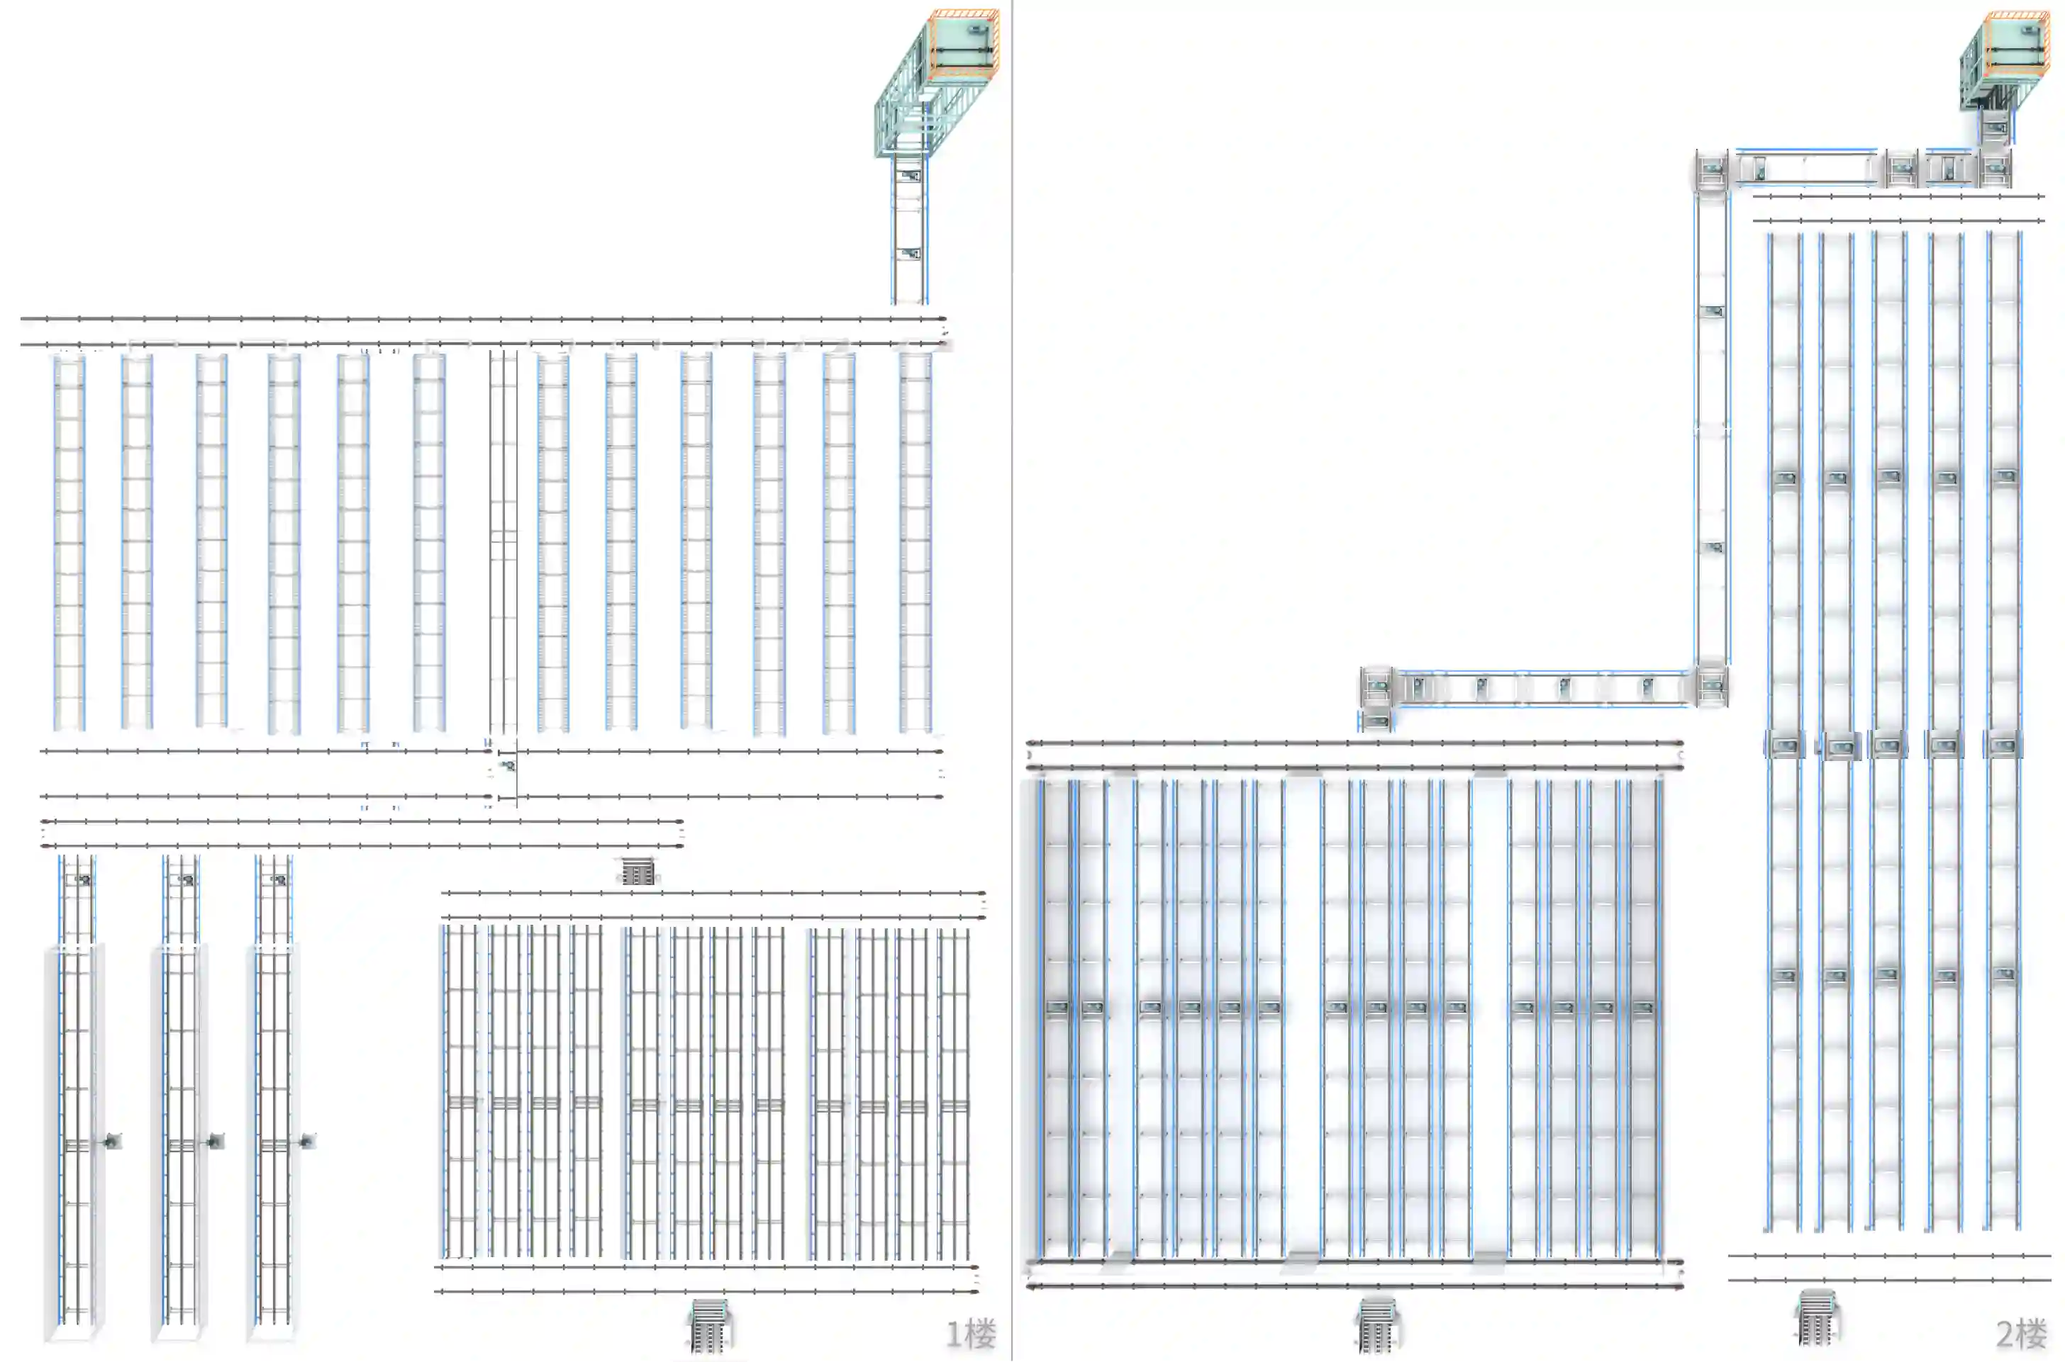
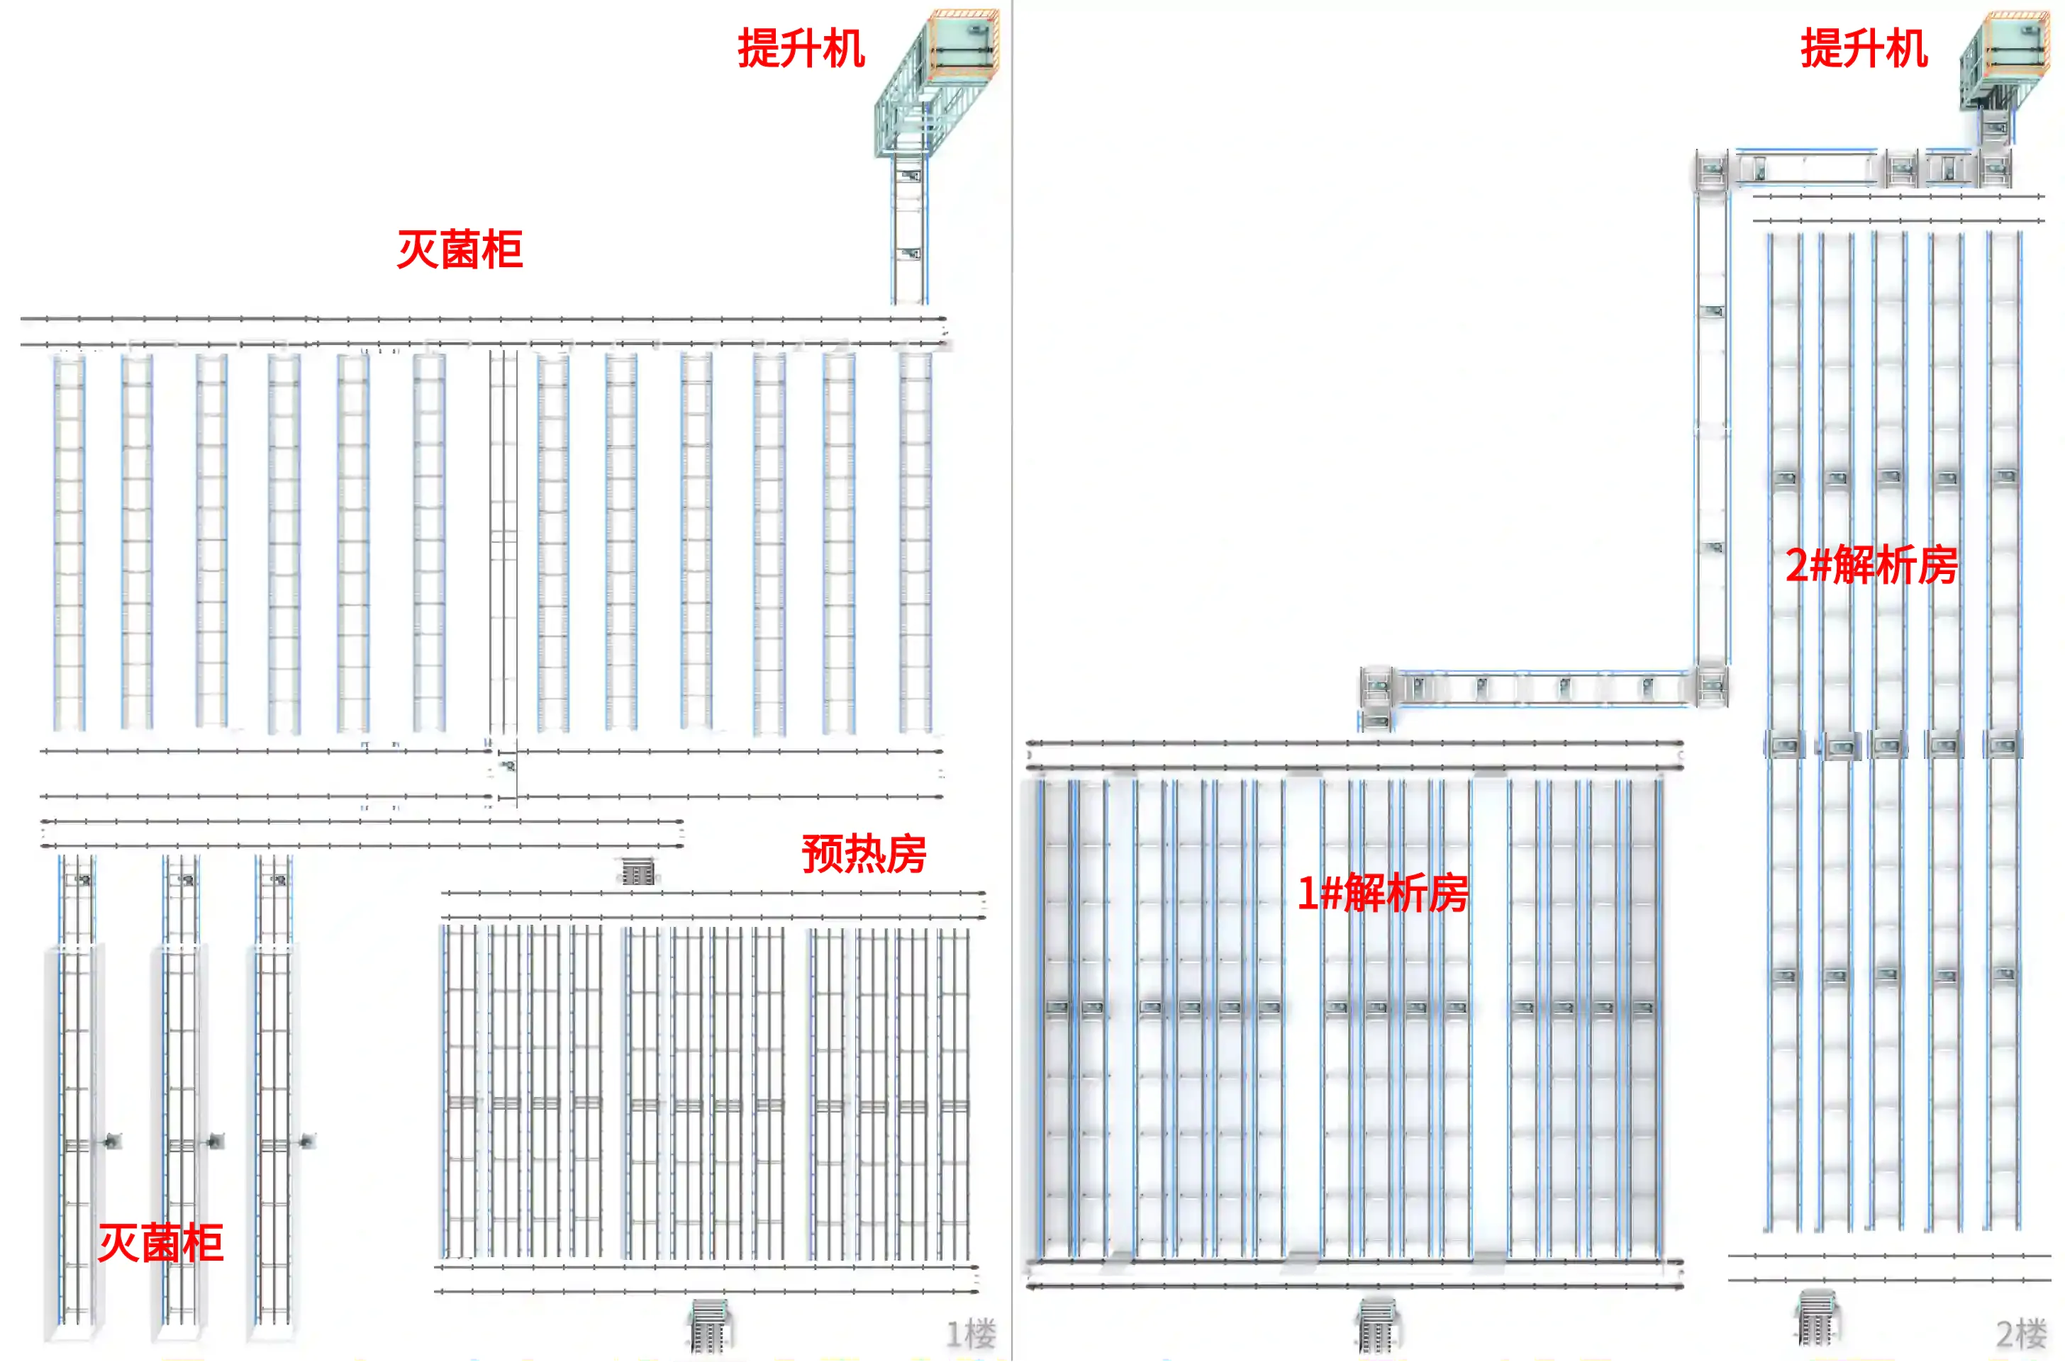
feat(home): 添加安全门状态显示功能并优化预热灭菌流程
- 在MainPage.vue中添加安全门打开标记组件，支持一楼6个和二楼3个安全门的实时状态显示
- 修改plcPoints.js配置，将DBW162从注释状态改为正式使用，用于二楼安全门监控
- 移除预热数量对比异常的相关代码逻辑和PLC标签定义
- 更新预热房到灭菌柜执行的位置坐标，从(1000,250)调整为(790,160)
- 优化托盘详情显示，调整订单灭菌柜和灭菌柜信息的展示顺序
- 添加cart7-cart10小车位置范围的具体定义，替换原有的占位配置
- 实现安全门信号的数据处理逻辑，包括一楼DBW176和二楼DBW162的位信号解析
- 更新图像标记查询选择器，添加.safety-door-marker类以支持新组件渲染
- 添加安全门标记的CSS样式，实现红色警示效果的两行文字显示

diff --git a/src/views/home/MainPage.vue b/src/views/home/MainPage.vue
@@ -721,8 +721,8 @@
                 <!-- 预热房到灭菌柜执行 -->
                 <div
                   class="preheating-room-marker"
-                  data-x="1000"
-                  data-y="250"
+                  data-x="790"
+                  data-y="160"
                   style="width: 160px"
                 >
                   <div class="preheating-room-content">
@@ -1058,6 +1058,98 @@
                   </div>
                 </div>
 
+                <!-- 安全门打开标记（收到信号显示，两行文字；坐标为平面图占位，需现场调整） -->
+                <!-- 一楼 DBW176 bit0：灭前1安全门 -->
+                <div
+                  class="safety-door-marker"
+                  data-x="1170"
+                  data-y="270"
+                  v-show="floor1SafetyDoorWord.bit0 === '1'"
+                >
+                  <span class="safety-door-line">安全门</span>
+                  <span class="safety-door-line">打开</span>
+                </div>
+                <!-- 一楼 DBW176 bit1：灭前2安全门 -->
+                <div
+                  class="safety-door-marker"
+                  data-x="1070"
+                  data-y="370"
+                  v-show="floor1SafetyDoorWord.bit1 === '1'"
+                >
+                  <span class="safety-door-line">安全门</span>
+                  <span class="safety-door-line">打开</span>
+                </div>
+                <!-- 一楼 DBW176 bit2：灭后1#安全门 -->
+                <div
+                  class="safety-door-marker"
+                  data-x="830"
+                  data-y="370"
+                  v-show="floor1SafetyDoorWord.bit2 === '1'"
+                >
+                  <span class="safety-door-line">安全门</span>
+                  <span class="safety-door-line">打开</span>
+                </div>
+                <!-- 一楼 DBW176 bit3：灭后2#安全门 -->
+                <div
+                  class="safety-door-marker"
+                  data-x="180"
+                  data-y="370"
+                  v-show="floor1SafetyDoorWord.bit3 === '1'"
+                >
+                  <span class="safety-door-line">安全门</span>
+                  <span class="safety-door-line">打开</span>
+                </div>
+                <!-- 一楼 DBW176 bit4：灭后3#安全门 -->
+                <div
+                  class="safety-door-marker"
+                  data-x="50"
+                  data-y="1380"
+                  v-show="floor1SafetyDoorWord.bit4 === '1'"
+                >
+                  <span class="safety-door-line">安全门</span>
+                  <span class="safety-door-line">打开</span>
+                </div>
+                <!-- 一楼 DBW176 bit5：灭后4#安全门 -->
+                <div
+                  class="safety-door-marker"
+                  data-x="500"
+                  data-y="1380"
+                  v-show="floor1SafetyDoorWord.bit5 === '1'"
+                >
+                  <span class="safety-door-line">安全门</span>
+                  <span class="safety-door-line">打开</span>
+                </div>
+                <!-- 二楼 DBW162 bit0：二楼1#安全门 -->
+                <div
+                  class="safety-door-marker"
+                  data-x="2870"
+                  data-y="480"
+                  v-show="floor2SafetyDoorWord.bit0 === '1'"
+                >
+                  <span class="safety-door-line">安全门</span>
+                  <span class="safety-door-line">打开</span>
+                </div>
+                <!-- 二楼 DBW162 bit1：二楼2#安全门 -->
+                <div
+                  class="safety-door-marker"
+                  data-x="2420"
+                  data-y="1190"
+                  v-show="floor2SafetyDoorWord.bit1 === '1'"
+                >
+                  <span class="safety-door-line">安全门</span>
+                  <span class="safety-door-line">打开</span>
+                </div>
+                <!-- 二楼 DBW162 bit2：二楼3#安全门 -->
+                <div
+                  class="safety-door-marker"
+                  data-x="1790"
+                  data-y="980"
+                  v-show="floor2SafetyDoorWord.bit2 === '1'"
+                >
+                  <span class="safety-door-line">安全门</span>
+                  <span class="safety-door-line">打开</span>
+                </div>
+
                 <transition name="fade-scale">
                   <div
                     v-if="popoverVisible && popoverData"
@@ -1221,10 +1313,10 @@
                         <span class="tray-detail"
                           >预热房：{{
                             tray.preheatRoom || tray.sendTo || '--'
+                          }}，订单灭菌柜：{{
+                            tray.sterilDestination || '--'
                           }}，灭菌柜：{{
-                            tray.sterilizationRoom ||
-                            tray.sterilDestination ||
-                            '--'
+                            tray.sterilizationRoom || '--'
                           }}，发往：{{
                             tray.analysisDestination
                               ? '解析房' + tray.analysisDestination
@@ -2395,6 +2487,20 @@ export default {
       popoverPosition: { top: 0, left: 0 },
       popoverDirection: 'up',
       currentSelectedNodeId: null,
+      // 安全门信号（bit=1 时显示“安全门/打开”两行文字标记）
+      floor1SafetyDoorWord: {
+        bit0: '0', // DBW176 BIT0 灭前1安全门
+        bit1: '0', // DBW176 BIT1 灭前2安全门
+        bit2: '0', // DBW176 BIT2 灭后1#安全门
+        bit3: '0', // DBW176 BIT3 灭后2#安全门
+        bit4: '0', // DBW176 BIT4 灭后3#安全门
+        bit5: '0' // DBW176 BIT5 灭后4#安全门
+      },
+      floor2SafetyDoorWord: {
+        bit0: '0', // DBW162 BIT0 二楼1#安全门
+        bit1: '0', // DBW162 BIT1 二楼2#安全门
+        bit2: '0' // DBW162 BIT2 二楼3#安全门
+      },
       deviceNodes: {
         S_F1_1001: {
           name: '光电1001',
@@ -4740,10 +4846,10 @@ export default {
         cart4: { min: 100, max: 2479 },
         cart5: { min: 100, max: 2478 },
         cart6: { min: 100, max: 1899 },
-        cart7: { min: 100, max: 3000 }, // 暂无，后续对照
-        cart8: { min: 100, max: 3000 }, // 暂无，后续对照
-        cart9: { min: 100, max: 3000 }, // 预热进口小车，暂无，后续对照
-        cart10: { min: 100, max: 3000 } // 预热出口小车，暂无，后续对照
+        cart7: { min: 5663, max: 8917 }, // 2#解析房进货小车（解析房前，DBW26）
+        cart8: { min: 5673, max: 8940 }, // 2#解析房出货小车（解析房后，DBW28）
+        cart9: { min: 5550, max: 14112 }, // 预热前小车（预热进口，DBW150）
+        cart10: { min: 5680, max: 14150 } // 预热后小车（预热出口，DBW152）
       },
       // ========== 订单管理相关 ==========
       ordersList: [],
@@ -5104,6 +5210,14 @@ export default {
       this.floor1FaultInfo1017 = Number(values.DBW156 ?? 0);
       this.floor1FaultInfospare1 = Number(values.DBW158 ?? 0);
       this.floor1FaultInfospare2 = Number(values.DBW160 ?? 0);
+      // 一楼安全门信号 DBW176（bit0~5 对应灭前1/灭前2/灭后1#~4#安全门）
+      let word176 = this.convertToWord(values.DBW176 ?? 0);
+      this.floor1SafetyDoorWord.bit0 = getBit(word176, 8);
+      this.floor1SafetyDoorWord.bit1 = getBit(word176, 9);
+      this.floor1SafetyDoorWord.bit2 = getBit(word176, 10);
+      this.floor1SafetyDoorWord.bit3 = getBit(word176, 11);
+      this.floor1SafetyDoorWord.bit4 = getBit(word176, 12);
+      this.floor1SafetyDoorWord.bit5 = getBit(word176, 13);
       this.syncDeviceNodesFromPlc(values, 0);
     };
     this._plcMsgHandler_1 = (event, values, values2) => {
@@ -5255,6 +5369,11 @@ export default {
       this.floor2FaultInfo2041 = Number(values.DBW244 ?? 0);
       this.floor2FaultInfo2042 = Number(values.DBW246 ?? 0);
       this.floor2FaultInfo2043 = Number(values.DBW248 ?? 0);
+      // 二楼安全门 DBW162（bit0~2 对应二楼1#~3#安全门）
+      let word162 = this.convertToWord(values.DBW162 ?? 0);
+      this.floor2SafetyDoorWord.bit0 = getBit(word162, 8);
+      this.floor2SafetyDoorWord.bit1 = getBit(word162, 9);
+      this.floor2SafetyDoorWord.bit2 = getBit(word162, 10);
       this.syncDeviceNodesFromPlc(values, 1);
     };
     // 给PLC数据加载时间
@@ -6360,46 +6479,10 @@ export default {
         }
       }
     },
-    // 预热数量对比异常：DB1001.DBW76 BIT0-11 → 预热1-12（一楼）
-    getPreheatCompareMismatchTag(preheatNo) {
-      const bitIndex = preheatNo - 1;
-      if (bitIndex < 0 || bitIndex > 11) {
-        return null;
-      }
-      return `W_DBW76_BIT${bitIndex}`;
-    },
     // 预热房队列长度（预热1-12）
     getPreheatWcsQueueCount(preheatNo) {
       const queue = this.queues[this.getPreheatQueueIndex(preheatNo)];
       return queue && Array.isArray(queue.trayInfo) ? queue.trayInfo.length : 0;
-    },
-    /**
-     * 预热房队列 vs PLC预热数量一致性（与灭菌数量对比异常同构）
-     * source=queue：一致发0，不一致发1；source=plc：仅一致发0
-     */
-    checkPreheatQtyConsistency(preheatNo, source) {
-      if (!this.isDataReady) return;
-      if (preheatNo < 1 || preheatNo > 12) return;
-      const tag = this.getPreheatCompareMismatchTag(preheatNo);
-      if (!tag) return;
-      const wcsCount = this.getPreheatWcsQueueCount(preheatNo);
-      const plcCount = Number(this.getPreheatQuantity(preheatNo) || 0);
-      const matched = wcsCount === plcCount;
-      if (source === 'queue') {
-        this.writePlcPulse(tag, matched ? false : true, 0);
-        this.addLog(
-          `预热房${preheatNo}队列变化：WCS=${wcsCount} PLC=${plcCount}，对比异常BIT=${
-            matched ? 0 : 1
-          }（2秒）`
-        );
-      } else if (source === 'plc') {
-        if (matched) {
-          this.writePlcPulse(tag, false, 0);
-          this.addLog(
-            `预热房${preheatNo}PLC数量变化：WCS=${wcsCount} PLC=${plcCount}，一致发0（2秒）`
-          );
-        }
-      }
     },
     /**
      * 解析房队列 vs PLC数量一致性
@@ -6726,9 +6809,6 @@ export default {
             this.preheatToSterilizeTrayCode
           } 写预热出口虚拟ID=${virtualId}，目的地(灭菌柜)=${dest}（DBW78/DBW80），时间：${currentTime}`
         );
-
-        // 预热队列与PLC预热数量比对（不一致发异常信号）
-        this.checkPreheatQtyConsistency(preheatNo, 'queue');
       } finally {
         this.isHandlingPreheatOutRequest = false;
       }
@@ -6737,10 +6817,6 @@ export default {
       if (!this.isDataReady) return;
       if (newVal > oldVal) {
         this.handlePreheatRoomQuantityIncrease(preheatNo, newVal, oldVal);
-      }
-      // PLC预热数量变化：与预热队列一致则发0；不一致不发
-      if (newVal !== oldVal) {
-        this.checkPreheatQtyConsistency(preheatNo, 'plc');
       }
     },
     handleSterilizationCompleteQuantityChange(cabinetNo, newVal, oldVal) {
@@ -7016,11 +7092,6 @@ export default {
           `预热房${preheatNo}数量增加${increaseCount}，上货区目的地为${preheatNo}的托盘不足，仅移动${movedCount}个托盘`
         );
       }
-
-      // 预热队列长度变化（入房），比对 WCS 与 PLC 预热数量（不一致发异常信号）
-      if (movedCount > 0) {
-        this.checkPreheatQtyConsistency(preheatNo, 'queue');
-      }
     },
     // 未完成数量增加（DBW70-92，19-30）：选择的预热房 → 未灭菌队列
     handleSterilizationIncompleteQuantityChange(cabinetNo, newVal, oldVal) {
@@ -7098,11 +7169,6 @@ export default {
         this.addLog(
           `灭菌柜${cabinetNo}数量增加${increaseCount}，预热房${preheatNo}托盘不足，仅移动${movedCount}个托盘`
         );
-      }
-
-      // 预热队列长度变化（出货），比对 WCS 与 PLC 预热数量（不一致发异常信号）
-      if (movedCount > 0) {
-        this.checkPreheatQtyConsistency(preheatNo, 'queue');
       }
 
       // 选择的预热房托盘已全部移入灭菌柜 → 停止执行
@@ -7849,7 +7915,7 @@ export default {
         if (!image.naturalWidth || !image.naturalHeight) return;
 
         const markers = imageWrapper.querySelectorAll(
-          '.marker, .marker-with-panel, .marker-with-button, .queue-marker, .motor-marker, .preheating-room-marker, .analysis-status-marker, .device-signal-node'
+          '.marker, .marker-with-panel, .marker-with-button, .queue-marker, .motor-marker, .preheating-room-marker, .analysis-status-marker, .device-signal-node, .safety-door-marker'
         );
         const carts = imageWrapper.querySelectorAll('.cart-container');
         const wrapperRect = imageWrapper.getBoundingClientRect();
@@ -10519,6 +10585,29 @@ export default {
                 background-color: #00cc44;
                 border: 1px solid #00aa33;
                 color: #ffffff;
+              }
+
+              /* 安全门打开标记（两行文字，红色警示） */
+              .safety-door-marker {
+                position: absolute;
+                transform: translate(-50%, -50%);
+                z-index: 20;
+                display: flex;
+                flex-direction: column;
+                align-items: center;
+                padding: 2px 6px;
+                border-radius: 4px;
+                background: rgba(245, 34, 45, 0.92);
+                border: 1px solid #ff4d4f;
+                box-shadow: 0 2px 6px rgba(0, 0, 0, 0.3);
+                color: #ffffff;
+                font-size: 12px;
+                font-weight: 600;
+                line-height: 1.25;
+                pointer-events: none;
+                .safety-door-line {
+                  white-space: nowrap;
+                }
               }
             }
           }

diff --git a/src/utils/plcPoints.js b/src/utils/plcPoints.js
@@ -152,19 +152,6 @@ var variables1 = {
   W_DBW74_BIT12: 'DB1001,X75.4', // 灭菌31
   W_DBW74_BIT13: 'DB1001,X75.5', // 灭菌32
   W_DBW74_BIT14: 'DB1001,X75.6', // 灭菌33
-  // 预热数量对比异常 DB1001.DBW76 BIT0-11 → 预热1-12
-  W_DBW76_BIT0: 'DB1001,X76.0', // 预热1
-  W_DBW76_BIT1: 'DB1001,X76.1', // 预热2
-  W_DBW76_BIT2: 'DB1001,X76.2', // 预热3
-  W_DBW76_BIT3: 'DB1001,X76.3', // 预热4
-  W_DBW76_BIT4: 'DB1001,X76.4', // 预热5
-  W_DBW76_BIT5: 'DB1001,X76.5', // 预热6
-  W_DBW76_BIT6: 'DB1001,X76.6', // 预热7
-  W_DBW76_BIT7: 'DB1001,X76.7', // 预热8
-  W_DBW76_BIT8: 'DB1001,X77.0', // 预热9
-  W_DBW76_BIT9: 'DB1001,X77.1', // 预热10
-  W_DBW76_BIT10: 'DB1001,X77.2', // 预热11
-  W_DBW76_BIT11: 'DB1001,X77.3', // 预热12
   W_DBW78: 'DB1001,INT78', // WCS预热出口写虚拟ID
   W_DBW80: 'DB1001,INT80', // WCS预热出口写目的地
   W_DBW86: 'DB1001,INT86', // WCS执行预热出货命令（预热→灭菌执行时发送1）
@@ -255,7 +242,7 @@ var variables2 = {
   DBW156: 'DB1000,INT156', // 二期电机运行信号2
   DBW158: 'DB1000,INT158', // 二期解析光电信号1
   DBW160: 'DB1000,INT160', // 二期解析光电信号2
-  // DBW162: 'DB1000,INT162', // 1019故障信息
+  DBW162: 'DB1000,INT162', // 二楼安全门（BIT0-2: 二楼1#~3#安全门）
   // DBW164: 'DB1000,INT164', // 2001故障信息
   // DBW166: 'DB1000,INT166', // 2002故障信息
   // DBW168: 'DB1000,INT168', // 2003故障信息
@@ -574,7 +561,8 @@ var readItems2 = [
   'DBW154', // 二期电机运行信号1
   'DBW156', // 二期电机运行信号2
   'DBW158', // 二期解析光电信号1
-  'DBW160' // 二期解析光电信号2
+  'DBW160', // 二期解析光电信号2
+  'DBW162' // 二楼安全门（BIT0-2: 二楼1#~3#安全门）
   // 'DBW154', // 备用
   // 'DBW156', // 备用
   // 'DBW158', // 备用
